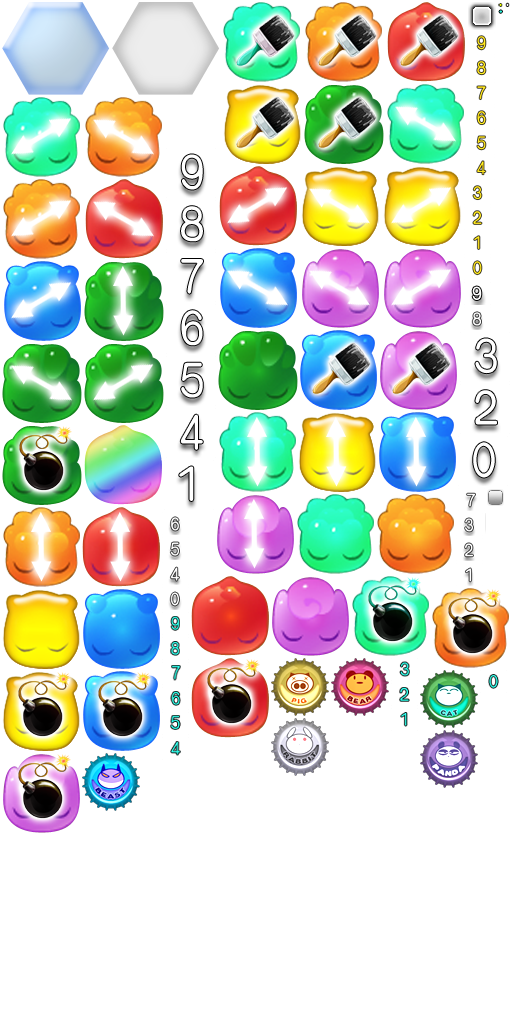
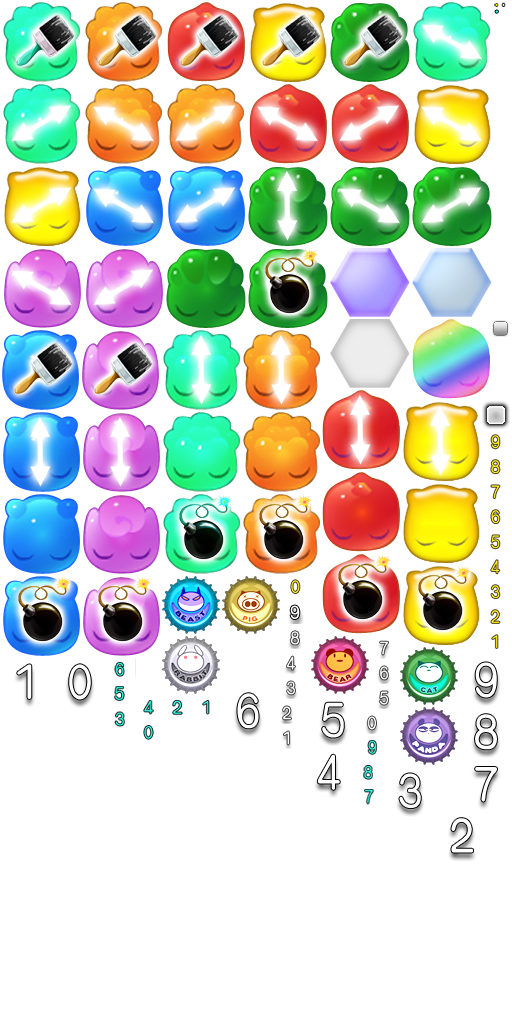
果冻功能 果冻的编辑

diff --git a/ClientProject/Assets/CSharpScripts/GameLogic.cs b/ClientProject/Assets/CSharpScripts/GameLogic.cs
@@ -94,11 +94,12 @@ public class GameLogic {
     public static readonly int BlockCountX = 7;	//游戏区有几列
     public static readonly int BlockCountY = 7;	//游戏区有几行
     public static readonly int ColorCount = 7;     //有几种颜色
+    public static readonly int BLOCKWIDTH = 60;
     public static readonly int gameAreaX = 0;		//游戏区域左上角坐标
     public static readonly int gameAreaY = 100;		//游戏区域左上角坐标
-    public static readonly int gameAreaWidth = 480;	//游戏区域宽度
-    public static readonly int gameAreaHeight = 510;//游戏区域高度
-    public static readonly int BLOCKWIDTH = 60;
+    public static readonly int gameAreaWidth = BLOCKWIDTH * BlockCountX;	//游戏区域宽度
+    public static readonly int gameAreaHeight = BLOCKWIDTH * BlockCountY + BlockCountY / 2;//游戏区域高度
+    
     public static readonly bool CanMoveWhenDroping = true;			//是否支持下落的同时移动
     public static readonly int PROGRESSTOWIN = 2000;
     public static readonly int DROP_TIME = 120;			//下落的时间
@@ -268,11 +269,11 @@ public class GameLogic {
                 }
                 if (m_grids[i, j].grid == TGridType.Jelly)
                 {
-                    UIDrawer.Singleton.DrawSprite("Grid" + i + "," + j, gameAreaX + i * BLOCKWIDTH + BLOCKWIDTH / 2, gameAreaY + j * BLOCKWIDTH + (i + 1) % 2 * BLOCKWIDTH / 2 + BLOCKWIDTH / 2, "Grid1");
+                    UIDrawer.Singleton.DrawSprite("Jelly" + i + "," + j, gameAreaX + i * BLOCKWIDTH + BLOCKWIDTH / 2, gameAreaY + j * BLOCKWIDTH + (i + 1) % 2 * BLOCKWIDTH / 2 + BLOCKWIDTH / 2, "Grid1");
                 }
                 if (m_grids[i, j].grid == TGridType.JellyDouble)
                 {
-                    UIDrawer.Singleton.DrawSprite("Grid" + i + "," + j, gameAreaX + i * BLOCKWIDTH + BLOCKWIDTH / 2, gameAreaY + j * BLOCKWIDTH + (i + 1) % 2 * BLOCKWIDTH / 2 + BLOCKWIDTH / 2, "Grid1");
+                    UIDrawer.Singleton.DrawSprite("Jelly2" + i + "," + j, gameAreaX + i * BLOCKWIDTH + BLOCKWIDTH / 2, gameAreaY + j * BLOCKWIDTH + (i + 1) % 2 * BLOCKWIDTH / 2 + BLOCKWIDTH / 2, "Grid2");
                 }
             }
         }
@@ -728,6 +729,15 @@ public class GameLogic {
         }
         m_blocks[position.x, position.y].Eat();			//吃掉当前块
 
+        if (m_grids[position.x, position.y].grid == TGridType.Jelly)
+        {
+            m_grids[position.x, position.y].grid = TGridType.Normal;
+        }
+        else if (m_grids[position.x, position.y].grid == TGridType.JellyDouble)
+        {
+            m_grids[position.x, position.y].grid = TGridType.Jelly;
+        }
+
         switch (m_blocks[position.x, position.y].special)
         {
             case TSpecialBlock.ESpecial_Bomb:
@@ -853,6 +863,16 @@ public class GameLogic {
         if (GlobalVars.EditState == TEditState.ChangeSpecial)
         {
             CreateSpecialBlock(GlobalVars.EditingSpecial, p);
+        }
+
+        if (GlobalVars.EditState == TEditState.EditStageBlock)
+        {
+            m_grids[p.x, p.y].gridBlock = GlobalVars.EditingGridBlock;
+        }
+
+        if (GlobalVars.EditState == TEditState.EditStageGrid)
+        {
+			m_grids[p.x, p.y].grid = GlobalVars.EditingGrid;
         }
     }
 

diff --git a/ClientProject/Assets/CSharpScripts/UIScripts/UIStageEditor.cs b/ClientProject/Assets/CSharpScripts/UIScripts/UIStageEditor.cs
@@ -27,6 +27,26 @@ public class UIStageEditor : UIWindowNGUI
                 GlobalVars.EditingSpecial = (TSpecialBlock)special;
             });
         }
+
+        for (int i = 0; i <= (int)TGridType.JellyDouble; ++i)
+        {
+            int grid = i;
+            AddChildComponentMouseClick("StageGrid" + i, delegate(object sender, UIMouseClick.ClickArgs e)
+            {
+                GlobalVars.EditState = TEditState.EditStageGrid;
+                GlobalVars.EditingGrid = (TGridType)grid;
+            });
+        }
+
+        for (int i = 0; i <= (int)TGridBlockType.Cage; ++i)
+        {
+            int gridBlock = i;
+            AddChildComponentMouseClick("StageBlock" + i, delegate(object sender, UIMouseClick.ClickArgs e)
+            {
+                GlobalVars.EditState = TEditState.EditStageBlock;
+                GlobalVars.EditingGridBlock = (TGridBlockType)gridBlock;
+            });
+        }
     }
     public override void OnShow()
     {

diff --git a/ClientProject/Assets/CSharpScripts/GlobalVars.cs b/ClientProject/Assets/CSharpScripts/GlobalVars.cs
@@ -20,6 +20,8 @@ public class GlobalVars {
     public static TEditState EditState;                        //当前的编辑状态
     public static TBlockColor EditingColor;                    //正在编辑的颜色
     public static TSpecialBlock EditingSpecial;                //正在编辑的颜色
+    public static TGridType     EditingGrid;                //正在编辑的颜色
+    public static TGridBlockType EditingGridBlock;                //正在编辑的颜色
 
 	// Use this for initialization
 	void Start () {
